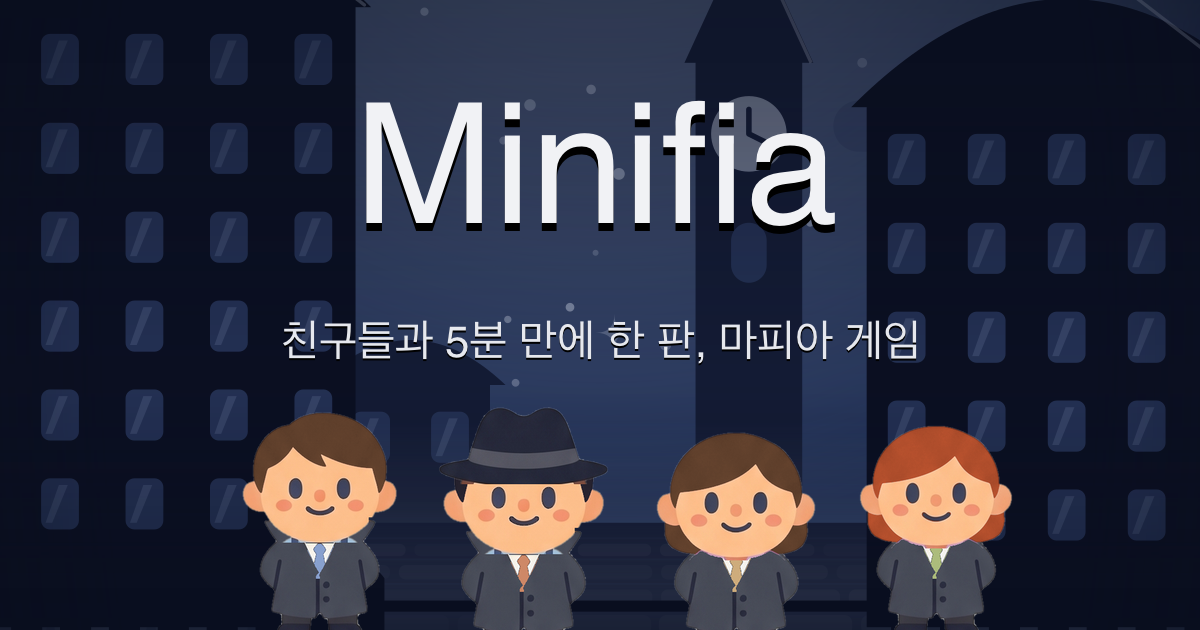
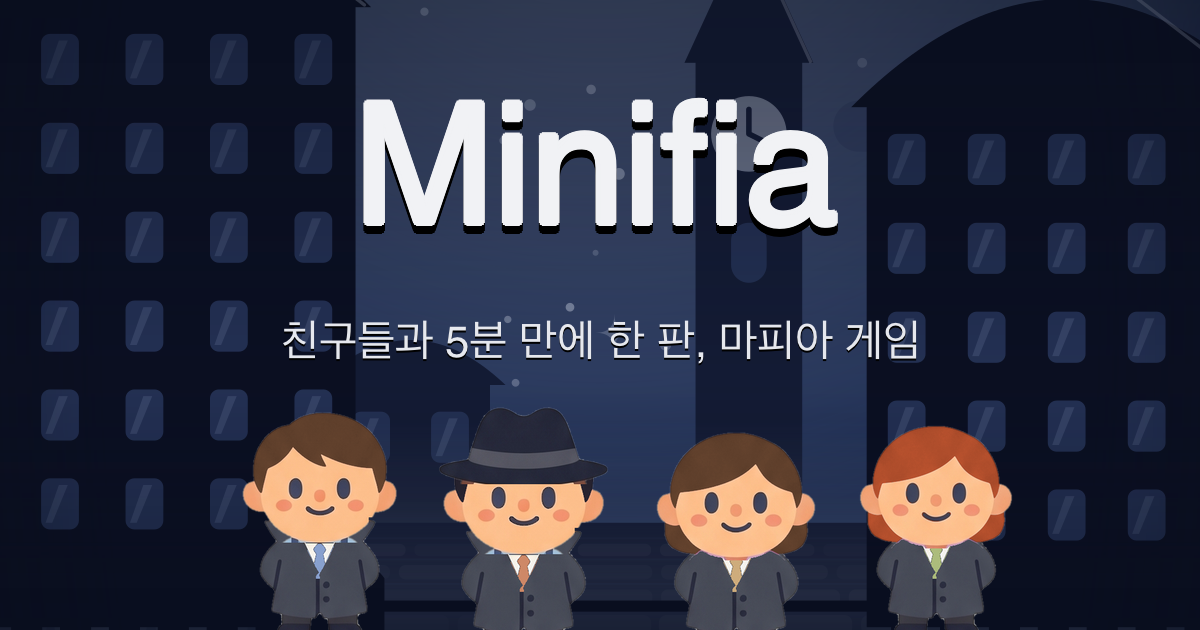
feat(01): Minifia 제목을 굵게 (앱은 글자 테두리, OG 는 겹쳐 그리기)

Changed region(s): [[0.2775, 0.1508, 0.7092, 0.3921]]

diff --git a/src/styles/ds.css b/src/styles/ds.css
@@ -63,6 +63,8 @@
 .mf-entry__head { display: flex; flex-direction: column; align-items: center; gap: var(--space-xs); margin-bottom: var(--space-xl); text-align: center; }
 .mf-entry__head .mf-t-label { color: var(--gray-100); text-shadow: var(--shadow-text); }
 .mf-entry__head .mf-t-display { text-shadow: var(--shadow-text); }
+/* Gowun Dodum 은 굵은 글자 모양이 없어(브라우저가 흐리게 흉내만 냄) 같은 색 테두리로 굵게 만든다. */
+.mf-entry__head .mf-t-display { -webkit-text-stroke: 2px var(--gray-50); paint-order: stroke fill; letter-spacing: 0.02em; }
 /* 링크 참가 화면(S-02)의 카드 */
 .mf-entry__card {
   margin-top: auto; display: flex; flex-direction: column; gap: var(--space-md);
